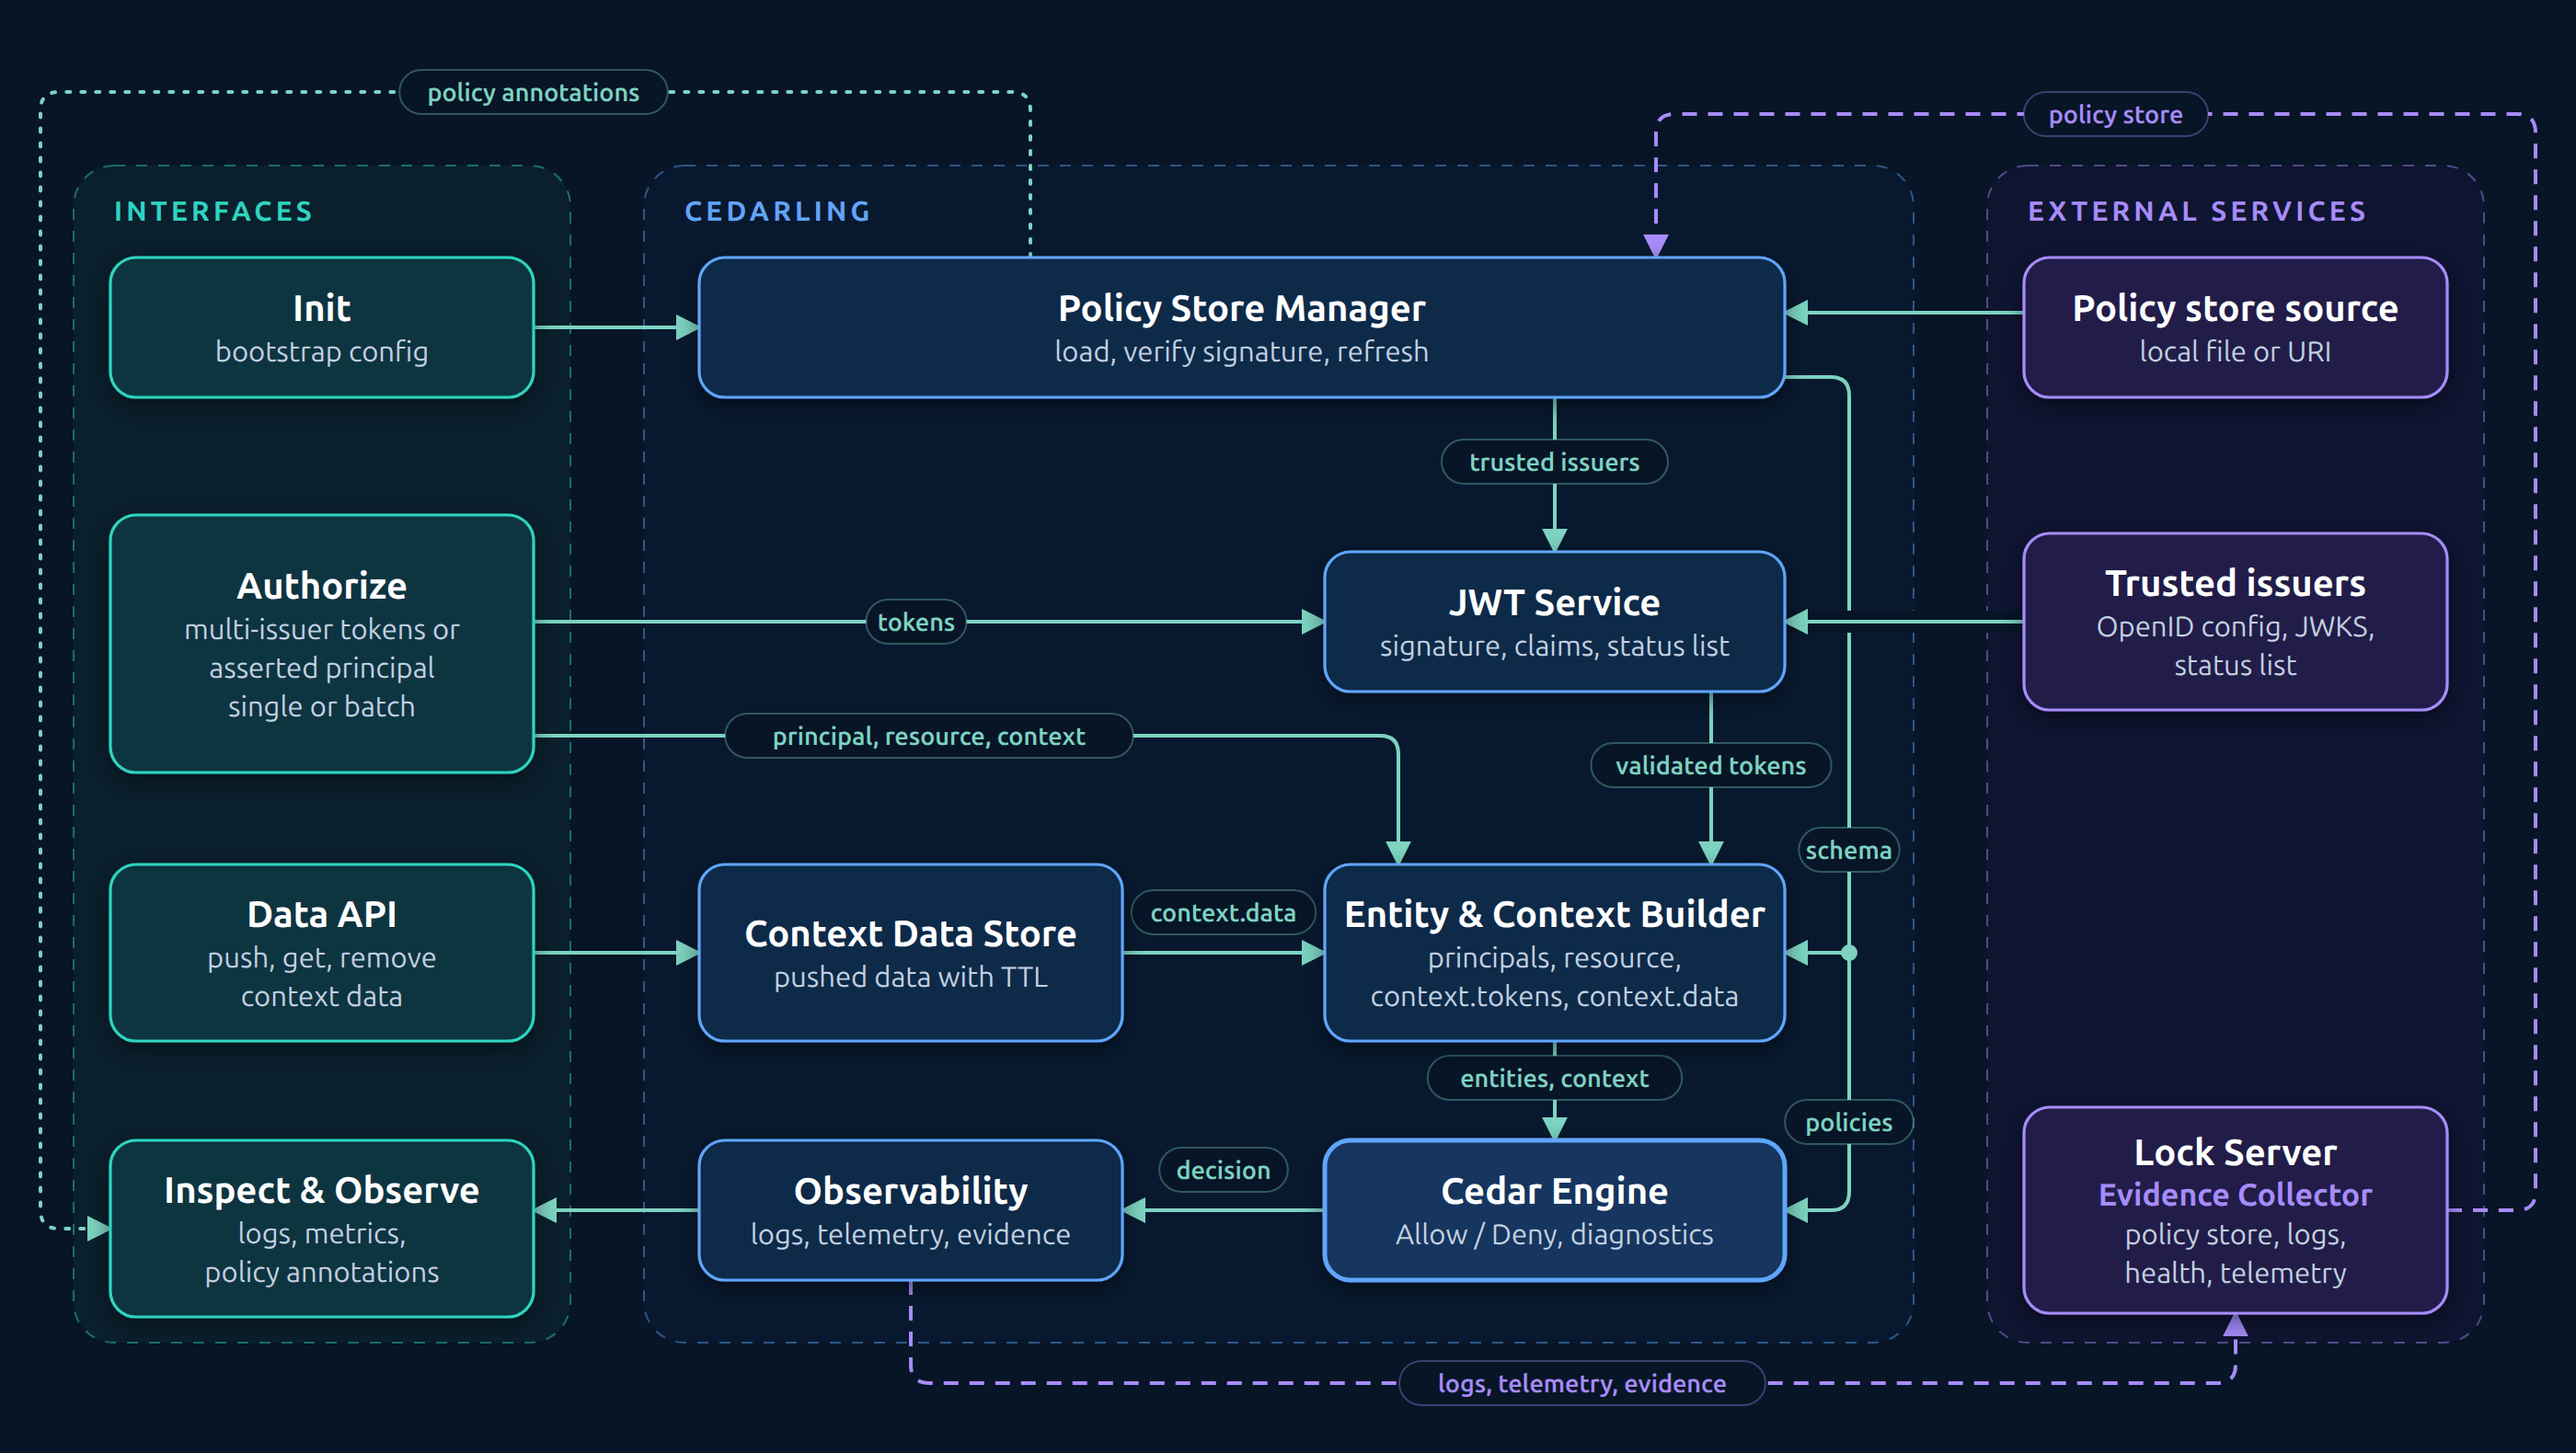
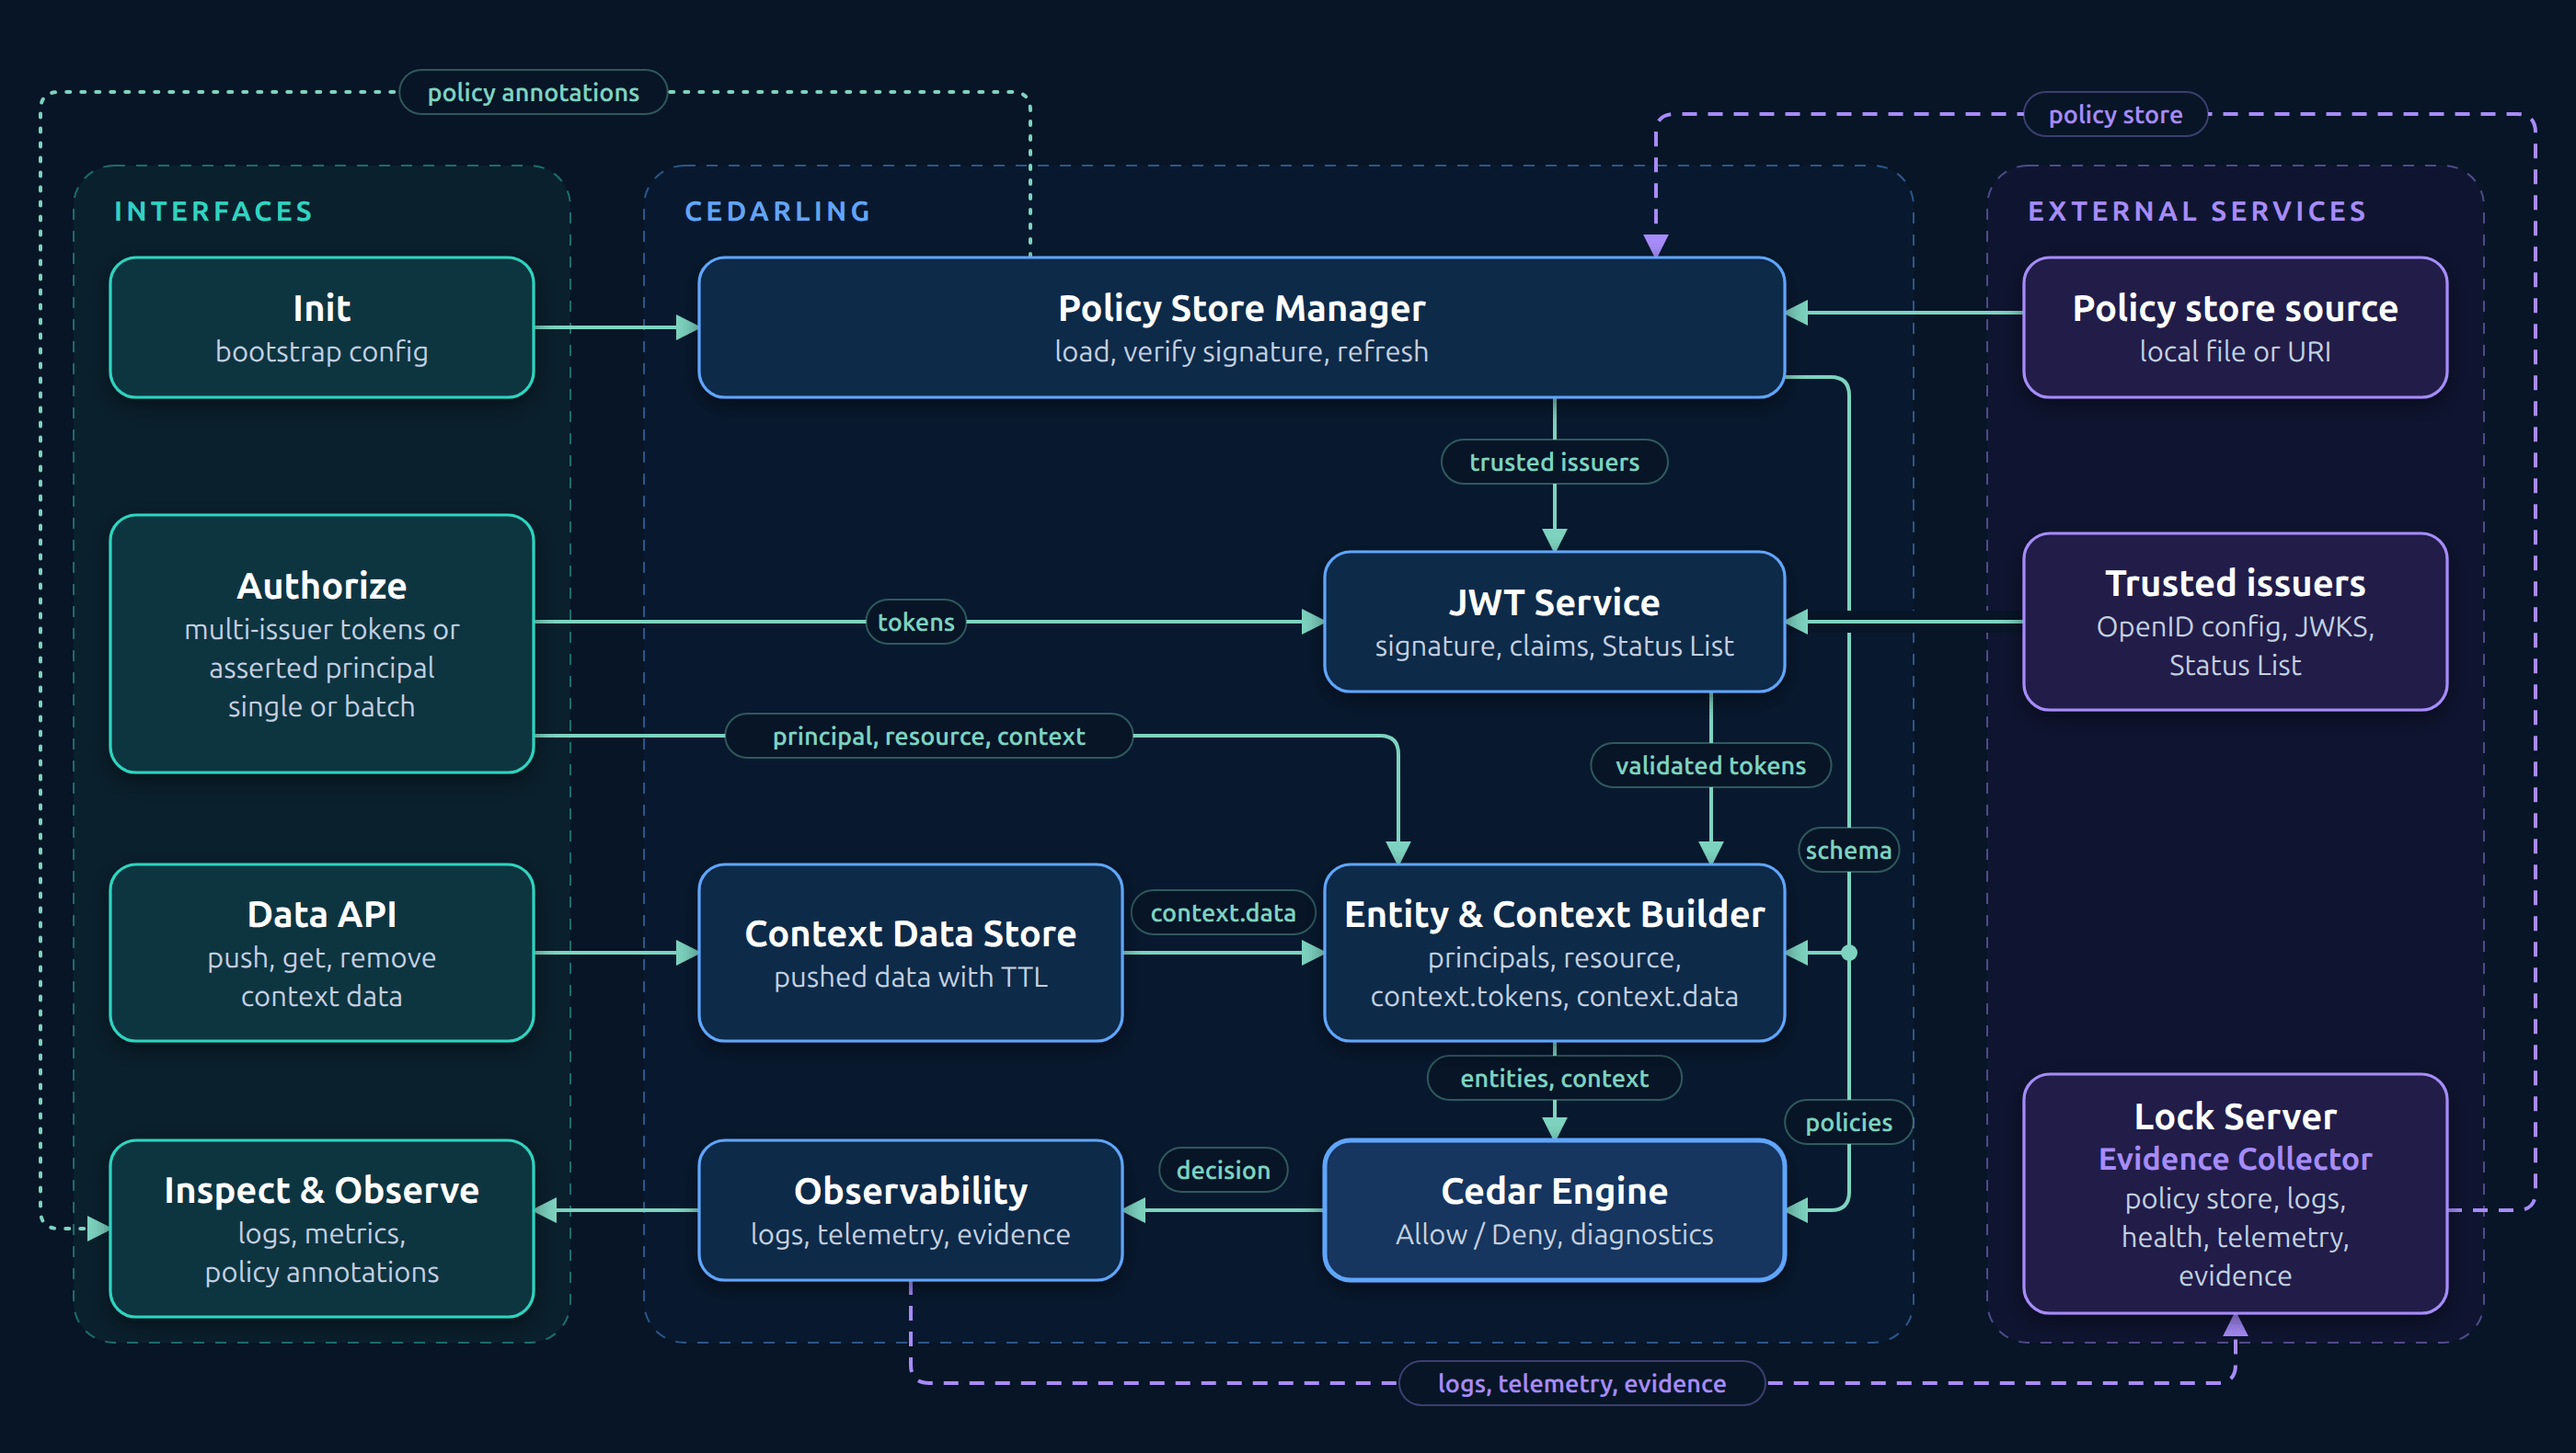
docs(jans-cedarling): align Lock Server and Status List terms in components
The Lock Server card listed what it receives without evidence, while
the edge into it says "logs, telemetry, evidence". Add evidence to the
card, and spell Status List the way the JWT diagram and docs do.

Changed region(s): [[0.7768, 0.7443, 0.9632, 0.8994], [0.5282, 0.4342, 0.6836, 0.4652], [0.8389, 0.4342, 0.9011, 0.4652]]

diff --git a/jans-cedarling/scripts/diagrams/components.py b/jans-cedarling/scripts/diagrams/components.py
@@ -22,7 +22,7 @@ DIAGRAM = {
         "psm": {"color": "blue", "box": (380, 140, 590, 76),
                 "title": "Policy Store Manager", "desc": ["load, verify signature, refresh"]},
         "jwt": {"color": "blue", "box": (720, 300, 250, 76),
-                "title": "JWT Service", "desc": ["signature, claims, status list"]},
+                "title": "JWT Service", "desc": ["signature, claims, Status List"]},
         "cds": {"color": "blue", "box": (380, 470, 230, 96),
                 "title": "Context Data Store", "desc": ["pushed data with TTL"]},
         "builder": {"color": "blue", "box": (720, 470, 250, 96),
@@ -36,10 +36,10 @@ DIAGRAM = {
         "source": {"color": "violet", "box": (1100, 140, 230, 76),
                    "title": "Policy store source", "desc": ["local file or URI"]},
         "issuers": {"color": "violet", "box": (1100, 290, 230, 96),
-                    "title": "Trusted issuers", "desc": ["OpenID config, JWKS,", "status list"]},
-        "lock": {"color": "violet", "box": (1100, 602, 230, 112),
+                    "title": "Trusted issuers", "desc": ["OpenID config, JWKS,", "Status List"]},
+        "lock": {"color": "violet", "box": (1100, 584, 230, 130),
                  "title": "Lock Server", "role": "Evidence Collector",
-                 "desc": ["policy store, logs,", "health, telemetry"]},
+                 "desc": ["policy store, logs,", "health, telemetry,", "evidence"]},
     },
     # Edges listed later are drawn on top; the halo on the issuers edge cuts a
     # gap into the policies line it crosses.
